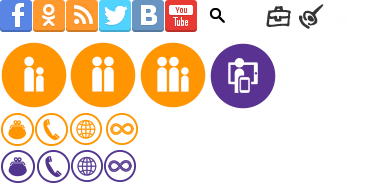
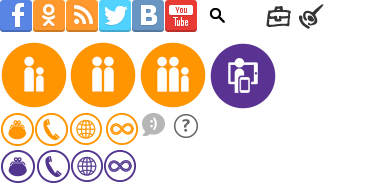
style of tooltip, tariffs

Changed region(s): [[0.3865, 0.5789, 0.5351, 0.7368]]

diff --git a/desktop.bundles/main/main.bemjson.js b/desktop.bundles/main/main.bemjson.js
@@ -362,7 +362,7 @@ module.exports = {
                                                     mods: { 'icon-only': true },
                                                     icon: {
                                                         block: 'icon',
-                                                        url: '/assets/img/question.png'
+                                                        mods: { 'tooltip': true }
                                                     }
                                                 }]
                                             }]
@@ -499,8 +499,7 @@ module.exports = {
                                                                         }]
                                                                     }, {
                                                                         block: 'icon',
-                                                                        mods: { smile: true },
-                                                                        url: '/assets/img/icon_smile.png'
+                                                                        mods: { smile: true }
                                                                     }]
                                                                 }]
                                                             }, {
@@ -633,8 +632,7 @@ module.exports = {
                                                                         }]
                                                                     }, {
                                                                         block: 'icon',
-                                                                        mods: { smile: true },
-                                                                        url: '/assets/img/icon_smile.png'
+                                                                        mods: { smile: true }
                                                                     }]
                                                                 }]
                                                             }, {
@@ -767,8 +765,7 @@ module.exports = {
                                                                         }]
                                                                     }, {
                                                                         block: 'icon',
-                                                                        mods: { smile: true },
-                                                                        url: '/assets/img/icon_smile.png'
+                                                                        mods: { smile: true }
                                                                     }]
                                                                 }]
                                                             }, {
@@ -901,8 +898,7 @@ module.exports = {
                                                                         }]
                                                                     }, {
                                                                         block: 'icon',
-                                                                        mods: { smile: true },
-                                                                        url: '/assets/img/icon_smile.png'
+                                                                        mods: { smile: true }
                                                                     }]
                                                                 }]
                                                             }, {

diff --git a/project.blocks/icon/_smile/icon_smile.css b/project.blocks/icon/_smile/icon_smile.css
@@ -1,8 +1,7 @@
 .icon_smile {
-    width: 33px;
-    height: 33px;
-    border-radius: 33px;
-    display: table-cell;
-    vertical-align: middle;
-    padding: 0;
+    width: 23px;
+    height: 23px;
+    background: url(/assets/img/icons.png);
+    background-position: -142px -113px;
+    margin-top: 30px;
 }

diff --git a/project.blocks/tarif/__property/tarif__property.css b/project.blocks/tarif/__property/tarif__property.css
@@ -1,4 +1,8 @@
 .tarif__property {
-display: flex;
-align-items: center;
+	display: flex;
+	align-items: center;
+    background-color: white;
+    margin-bottom: 10px;
+    border-radius: 5px;
+    padding: 10px 0px 10px 5px;
 }

diff --git a/project.blocks/tarif/__menu/tarif__menu.css b/project.blocks/tarif/__menu/tarif__menu.css
@@ -5,8 +5,5 @@
 	outline: none;
 }
 .menu__item {
-    background-color: white;
-    margin-bottom: 10px;
-    border-radius: 5px;
-    padding: 10px 0px 10px 5px;
+
 }

diff --git a/project.blocks/button/_search/button_search.css b/project.blocks/button/_search/button_search.css
@@ -17,3 +17,6 @@
 .button_search:hover {
     background: url(/assets/img/icons.png) no-repeat -200px -4px, #E7E7E7;
 }
+button:focus {
+    outline: none;
+}

diff --git a/project.blocks/tarif/__property-desc/tarif__property-desc.css b/project.blocks/tarif/__property-desc/tarif__property-desc.css
@@ -2,5 +2,4 @@
     display: table-cell;
     vertical-align: middle;
     line-height: 21px;
-    width: 150px;
 }

diff --git a/project.blocks/tarif/__property-desc/_info/tarif__property-desc_info.css b/project.blocks/tarif/__property-desc/_info/tarif__property-desc_info.css
@@ -3,4 +3,5 @@
 	font-size: 17px;
 	font-family: "life_medium";
 	font-weight: normal;
+    width: 157px;
 }

diff --git a/project.blocks/button/button.css b/project.blocks/button/button.css
@@ -1,3 +1,4 @@
-.button {
+button {
     display: inline-block;
+    background-color: transparent;
 }
